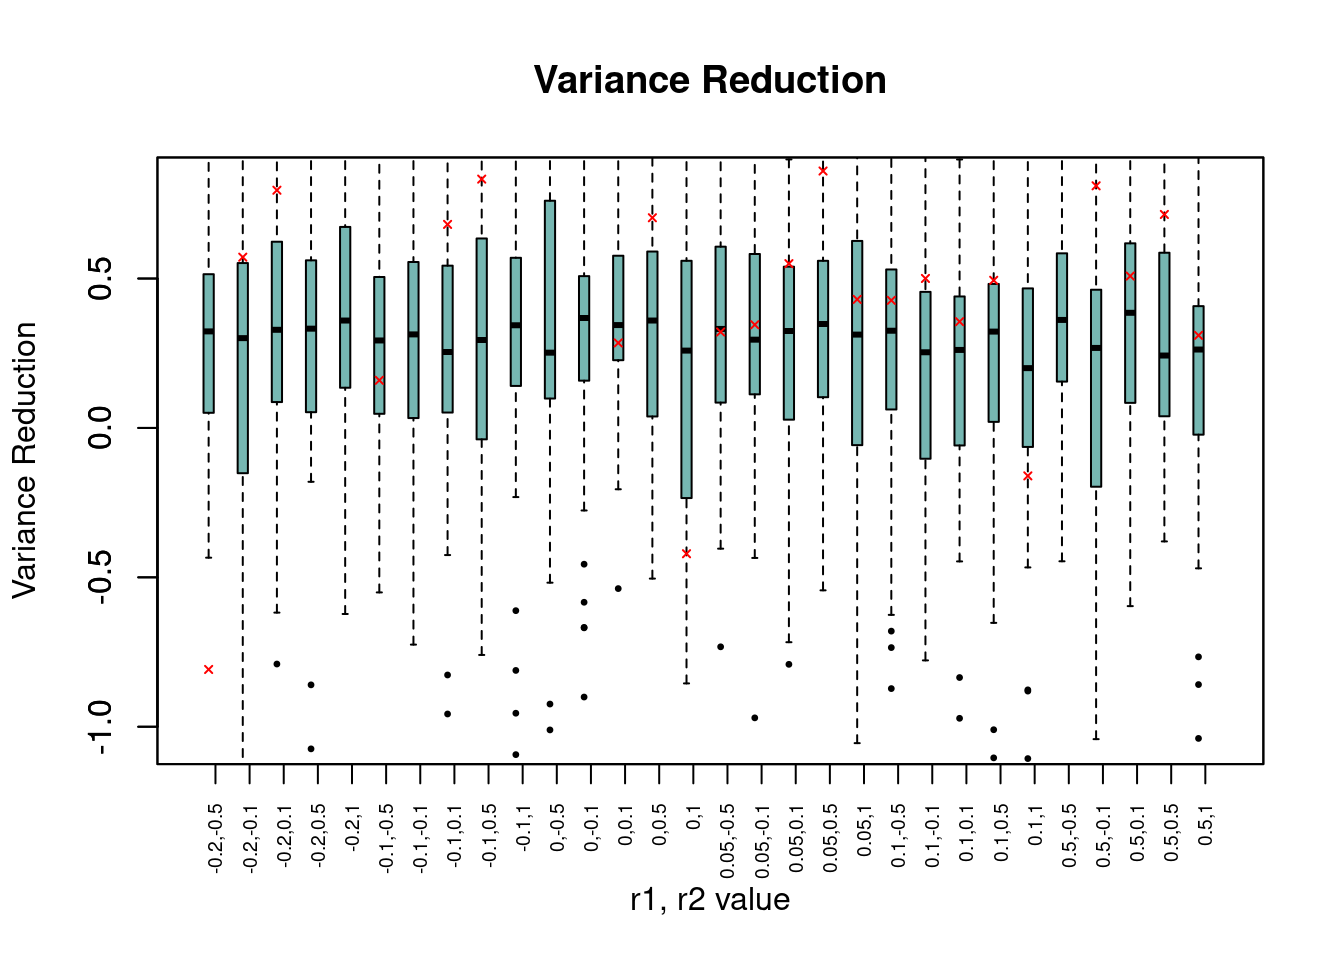
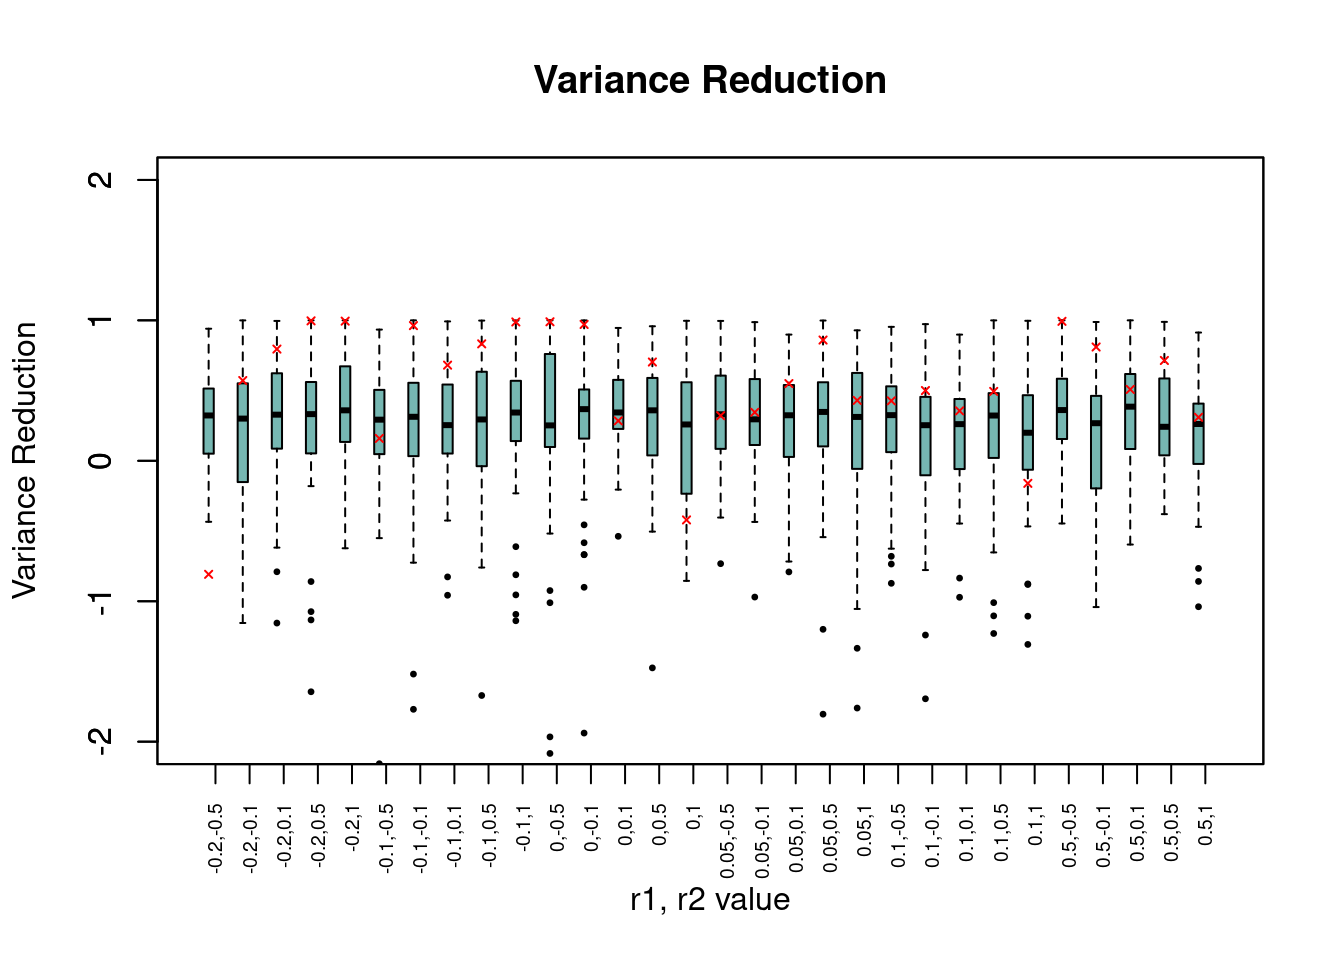
Build site.

diff --git a/docs/mr_result_sib_randomX.html b/docs/mr_result_sib_randomX.html
@@ -522,15 +522,15 @@ project makes it easier to run your code on other machines.</p>
 <div class="panel panel-default">
 <div class="panel-heading">
 <p class="panel-title">
-<a data-toggle="collapse" data-parent="#workflowr-checks" href="#strongRepositoryversionstrongahrefhttpsgithubcomyunqiyang0215simulationcalibratedmrtree62f28c367cbe1d0da1e94a4ff9e50843aae2fb90targetblank62f28c3a">
+<a data-toggle="collapse" data-parent="#workflowr-checks" href="#strongRepositoryversionstrongahrefhttpsgithubcomyunqiyang0215simulationcalibratedmrtreeefc5338420bddb5bf30c8deb8a3ecbd050d5455atargetblankefc5338a">
 <span class="glyphicon glyphicon-ok text-success"
 aria-hidden="true"></span> <strong>Repository version:</strong>
-<a href="https://github.com/yunqiyang0215/simulation-calibrated-mr/tree/62f28c367cbe1d0da1e94a4ff9e50843aae2fb90" target="_blank">62f28c3</a>
+<a href="https://github.com/yunqiyang0215/simulation-calibrated-mr/tree/efc5338420bddb5bf30c8deb8a3ecbd050d5455a" target="_blank">efc5338</a>
 </a>
 </p>
 </div>
 <div
[2 lines of base64/hex data omitted]
 class="panel-collapse collapse">
 <div class="panel-body">
 <p>
@@ -540,7 +540,7 @@ reproducibility.
 </p>
 <p>
 The results in this page were generated with repository version
-<a href="https://github.com/yunqiyang0215/simulation-calibrated-mr/tree/62f28c367cbe1d0da1e94a4ff9e50843aae2fb90" target="_blank">62f28c3</a>.
+<a href="https://github.com/yunqiyang0215/simulation-calibrated-mr/tree/efc5338420bddb5bf30c8deb8a3ecbd050d5455a" target="_blank">efc5338</a>.
 See the <em>Past versions</em> tab to see a history of the changes made
 to the R Markdown and HTML files.
 </p>
@@ -606,6 +606,40 @@ Message
 </tr>
 </thead>
 <tbody>
+<tr>
+<td>
+Rmd
+</td>
+<td>
+<a href="https://github.com/yunqiyang0215/simulation-calibrated-mr/blob/efc5338420bddb5bf30c8deb8a3ecbd050d5455a/analysis/mr_result_sib_randomX.Rmd" target="_blank">efc5338</a>
+</td>
+<td>
+yunqi yang
+</td>
+<td>
+2024-03-10
+</td>
+<td>
+wflow_publish("analysis/mr_result_sib_randomX.Rmd")
+</td>
+</tr>
+<tr>
+<td>
+html
+</td>
+<td>
+<a href="https://rawcdn.githack.com/yunqiyang0215/simulation-calibrated-mr/0b2e127b22b527300540830e9ef39a22a5fc1746/docs/mr_result_sib_randomX.html" target="_blank">0b2e127</a>
+</td>
+<td>
+yunqi yang
+</td>
+<td>
+2024-03-10
+</td>
+<td>
+Build site.
+</td>
+</tr>
 <tr>
 <td>
 Rmd
@@ -1535,6 +1569,17 @@ Date
 <tbody>
 <tr>
 <td>
+<a href="https://github.com/yunqiyang0215/simulation-calibrated-mr/blob/0b2e127b22b527300540830e9ef39a22a5fc1746/docs/figure/mr_result_sib_randomX.Rmd/unnamed-chunk-21-1.png" target="_blank">0b2e127</a>
+</td>
+<td>
+yunqi yang
+</td>
+<td>
+2024-03-10
+</td>
+</tr>
+<tr>
+<td>
 <a href="https://github.com/yunqiyang0215/simulation-calibrated-mr/blob/04835646870599d14dce4fdf82f1c2ff4b1a2d9f/docs/figure/mr_result_sib_randomX.Rmd/unnamed-chunk-21-1.png" target="_blank">0483564</a>
 </td>
 <td>
@@ -1557,7 +1602,7 @@ emp_var_reduction &lt;- aggregate(emp_var_reduction ~ combination, data = aggreg
 # Plotting setup
 plot(1, type = &quot;n&quot;, xlab = &quot;r1, r2 value&quot;, ylab = &quot;Variance Reduction&quot;, 
      xlim = c(0.5, length(levels(aggregated_data$combination)) + 0.5), 
-     ylim = c(-1.05, 0.83), xaxt = &quot;n&quot;, main = &quot;Variance Reduction&quot;)
+     ylim = c(-2, 2), xaxt = &quot;n&quot;, main = &quot;Variance Reduction&quot;)
 
 # Add boxplot for variance reduction
 boxplot(var_reduction ~ combination, data = aggregated_data, 
